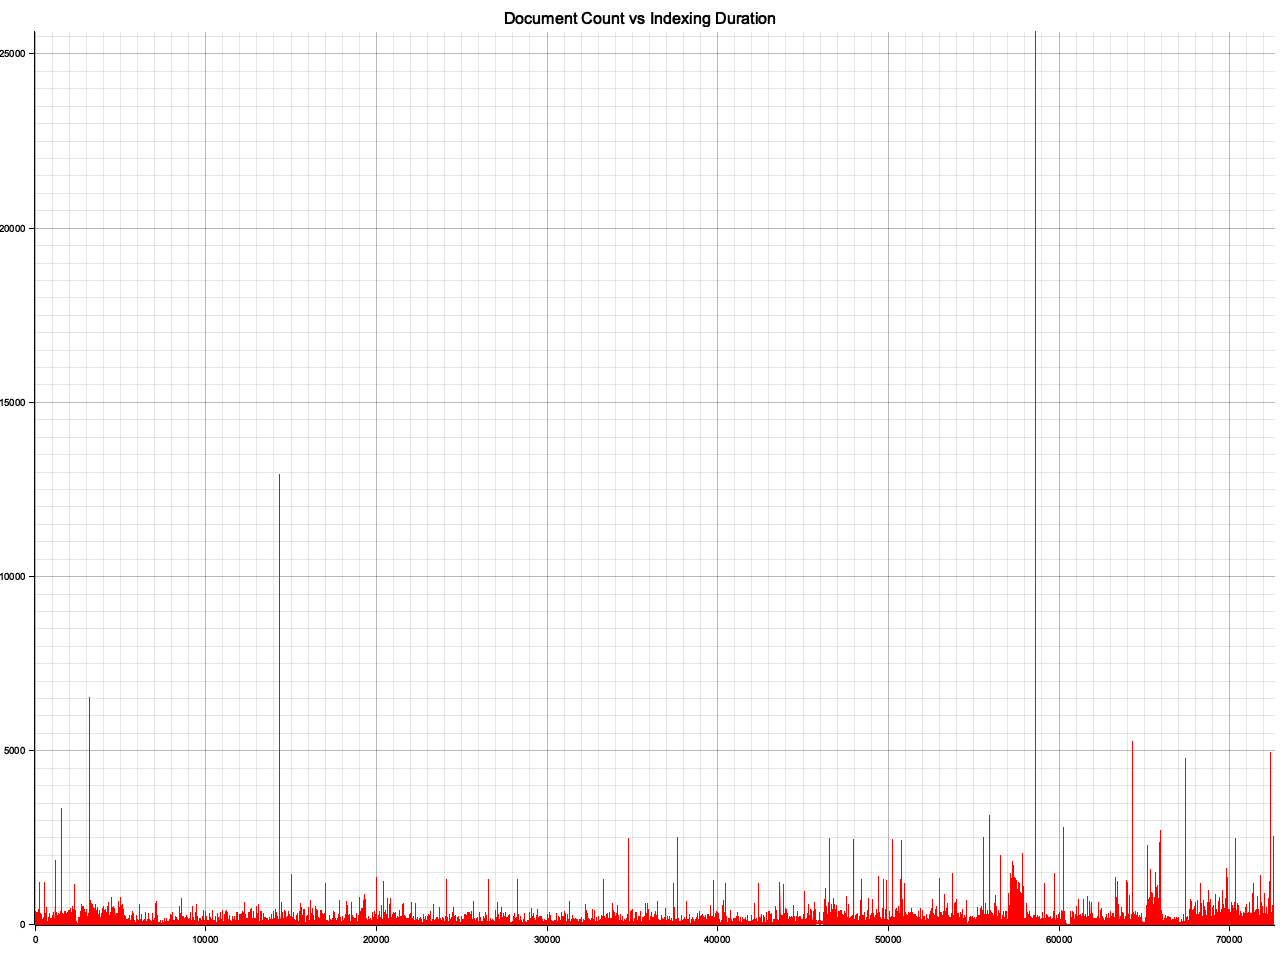
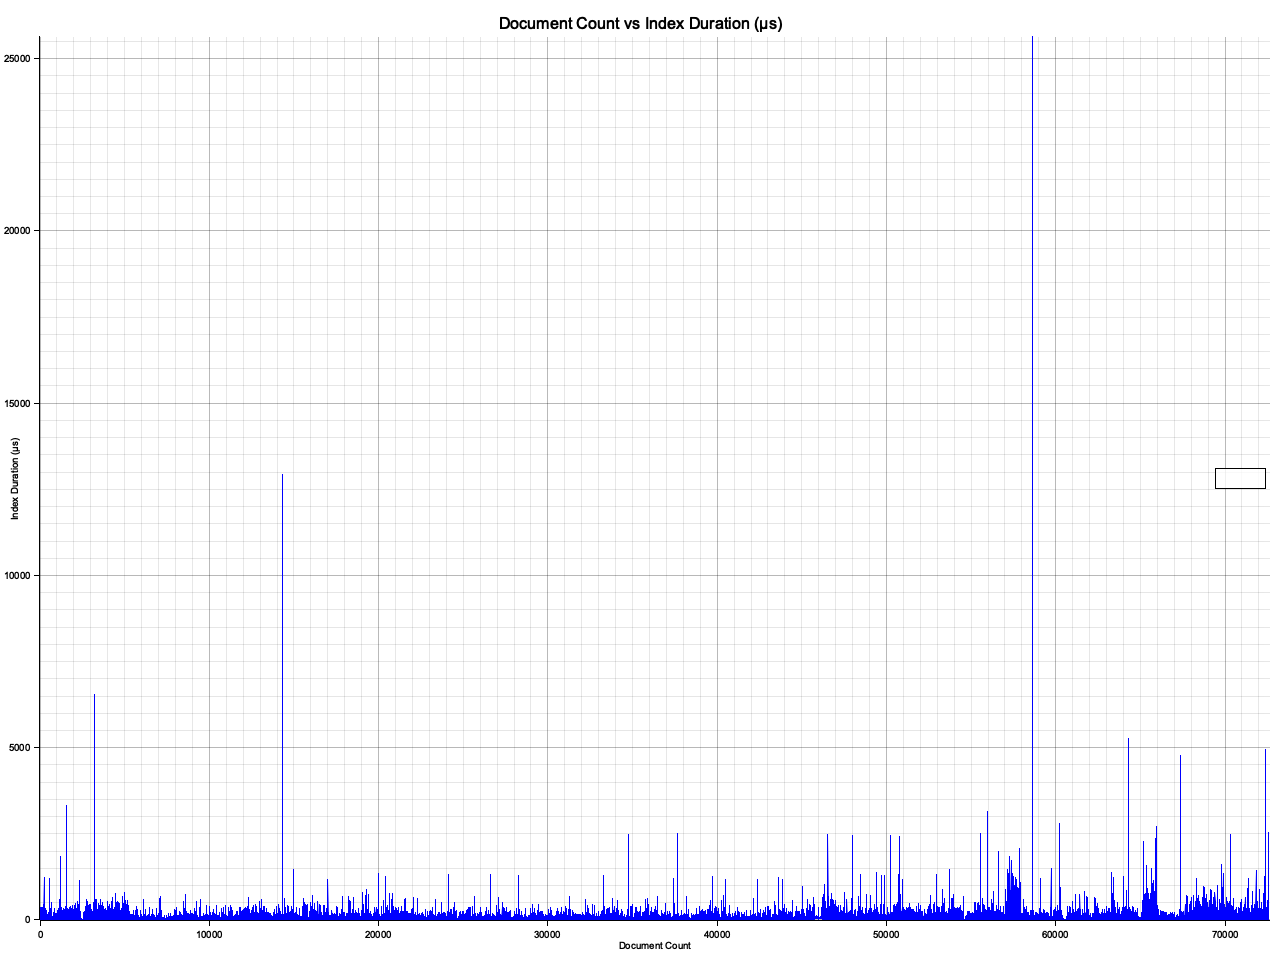
plot query duration

Changed region(s): [[0.0, 0.5312, 1.0, 1.0], [0.0, 0.0, 0.9688, 0.5625]]

diff --git a/src/plot.rs b/src/plot.rs
@@ -11,31 +11,94 @@ pub fn plot_indexing_duration(target_dir: &str) -> Result<(), Box<dyn Error>> {
     let mut rdr = csv::Reader::from_path(input_path)?;
     let mut data = Vec::new();
     let mut max_indexing_duration = 0u128;
-    let mut max_documents = 0i32;
 
     for result in rdr.records() {
         let record = result?;
-        let document_count: i32 = record[0].parse().expect("Failed to read document count!");
+        let document_count: i32 = record[0].parse().unwrap();
         let indexing_duration: u128 = record[1].parse().unwrap();
 
         data.push((document_count, indexing_duration));
         max_indexing_duration = max_indexing_duration.max(indexing_duration);
-        max_documents = document_count;
     }
 
     let y_axis_upper_bound = max_indexing_duration;
 
-    let root = BitMapBackend::new(&output_path, (1280, 960)).into_drawing_area();
+    plot_documents_to_latency_chart(
+        data.clone(), 
+        &output_path, 
+        data.len() as i32,
+        y_axis_upper_bound, 
+        "Document Count vs Index Duration (µs)", 
+        "Document Count", 
+        "Index Duration (µs)",
+    )?;
+    Ok(())
+}
+
+pub fn plot_query_duration(target_dir: &str) -> Result<(), Box<dyn Error>> {
+    let input_path = Path::new(target_dir).join("querying_data.csv");
+    let output_path = Path::new(target_dir).join("querying_data.png");
+
+    let mut rdr = csv::Reader::from_path(input_path)?;
+    let mut data = Vec::new();
+    let mut max_indexing_duration = 0u128;
+    let mut max_query_tokens = 0usize;
+    let mut x_axis_upper_bound = 0;
+
+    for result in rdr.records() {
+        let record = result?;
+        let document_count: i32 = record[0].parse().unwrap();
+        let query_tokens: usize = record[1].parse().unwrap();
+        let indexing_duration: u128 = record[2].parse().unwrap();
+
+        data.push((document_count, indexing_duration));
+        max_indexing_duration = max_indexing_duration.max(indexing_duration);
+        max_query_tokens = max_query_tokens.max(query_tokens);
+        x_axis_upper_bound = x_axis_upper_bound.max(document_count);
+    }
+
+    let y_axis_upper_bound = max_indexing_duration;
+
+    plot_documents_to_latency_chart(
+        data.clone(), 
+        &output_path, 
+        x_axis_upper_bound,
+        y_axis_upper_bound, 
+        &("Document Count vs Query Duration (µs) - Query Tokens: ".to_owned() + &max_query_tokens.to_string()), 
+        "Document Count", 
+        "Query Duration (µs)",
+    )?;
+    Ok(())
+}
+
+fn plot_documents_to_latency_chart(
+    data: Vec<(i32, u128)>, 
+    output_path: &Path, 
+    x_axis_upper_bound: i32,
+    y_axis_upper_bound: u128, 
+    title: &str,
+    x_label: &str,
+    y_label: &str,
+) -> Result<(), Box<dyn Error>> {
+    let root = BitMapBackend::new(output_path, (1280, 960)).into_drawing_area();
     root.fill(&WHITE)?;
     let mut chart = ChartBuilder::on(&root)
-        .caption("Document Count vs Indexing Duration", ("sans-serif", 20))
-        .margin(5)
-        .x_label_area_size(30)
-        .y_label_area_size(30)
-        .build_cartesian_2d(0..max_documents, 0u128..y_axis_upper_bound)?;
+        .caption(title, ("sans-serif", 20))
+        .margin(20)
+        .x_label_area_size(50)
+        .y_label_area_size(50)
+        .build_cartesian_2d(0..x_axis_upper_bound, 0u128..y_axis_upper_bound)?;
 
-    chart.configure_mesh().draw()?;
-    chart.draw_series(LineSeries::new(data, &RED))?;
+    chart.configure_mesh()
+        .x_desc(x_label)
+        .y_desc(y_label)
+        .draw()?;
+
+    chart.draw_series(LineSeries::new(data, &BLUE))?;
+    chart.configure_series_labels()
+        .background_style(&WHITE.mix(0.8))
+        .border_style(&BLACK)
+        .draw()?;
 
     Ok(())
 }

diff --git a/src/main.rs b/src/main.rs
@@ -4,7 +4,10 @@ mod plot;
 
 use benchmark::benchmark_index;
 use idx::PositionalInvertedIndex;
-use plot::plot_indexing_duration;
+use plot::{
+    plot_indexing_duration,
+    plot_query_duration
+};
 use clap::{
     App,
     Arg,
@@ -60,7 +63,12 @@ fn main() {
                 .required(true)
                 .multiple(true)))
         .subcommand(SubCommand::with_name("plot_indexing_duration")
-            .about("Plots benchmarking results")
+            .about("Plots indexing duration results")
+            .arg(Arg::with_name("Target Directory")
+                .help("The target directory to read benchmark results and write the plot")
+                .required(true)))
+        .subcommand(SubCommand::with_name("plot_query_duration")
+            .about("Plots query duration results")
             .arg(Arg::with_name("Target Directory")
                 .help("The target directory to read benchmark results and write the plot")
                 .required(true)))
@@ -111,6 +119,14 @@ fn main() {
             let target_directory = sub_m.value_of("Target Directory").unwrap();
 
             match plot_indexing_duration(target_directory) {
+                Ok(_) => println!("Plot completed successfully"),
+                Err(e) => println!("Plot failed: {}", e),
+            }
+        },
+        ("plot_query_duration", Some(sub_m)) => {
+            let target_directory = sub_m.value_of("Target Directory").unwrap();
+
+            match plot_query_duration(target_directory) {
                 Ok(_) => println!("Plot completed successfully"),
                 Err(e) => println!("Plot failed: {}", e),
             }

diff --git a/README.md b/README.md
@@ -35,3 +35,10 @@ Benchmark completed successfully
 $ cargo run -- $INDEX_NAME benchmark 50 3 3 results/many_books_small_queries $(find benchmarking_data | grep "/")
 Benchmark completed successfully
 ```
+
+# Plotting
+
+```sh
+$ cargo run -- $INDEX_NAME plot_indexing_duration results/many_books_small_queries
+Plot completed successfully
+```
